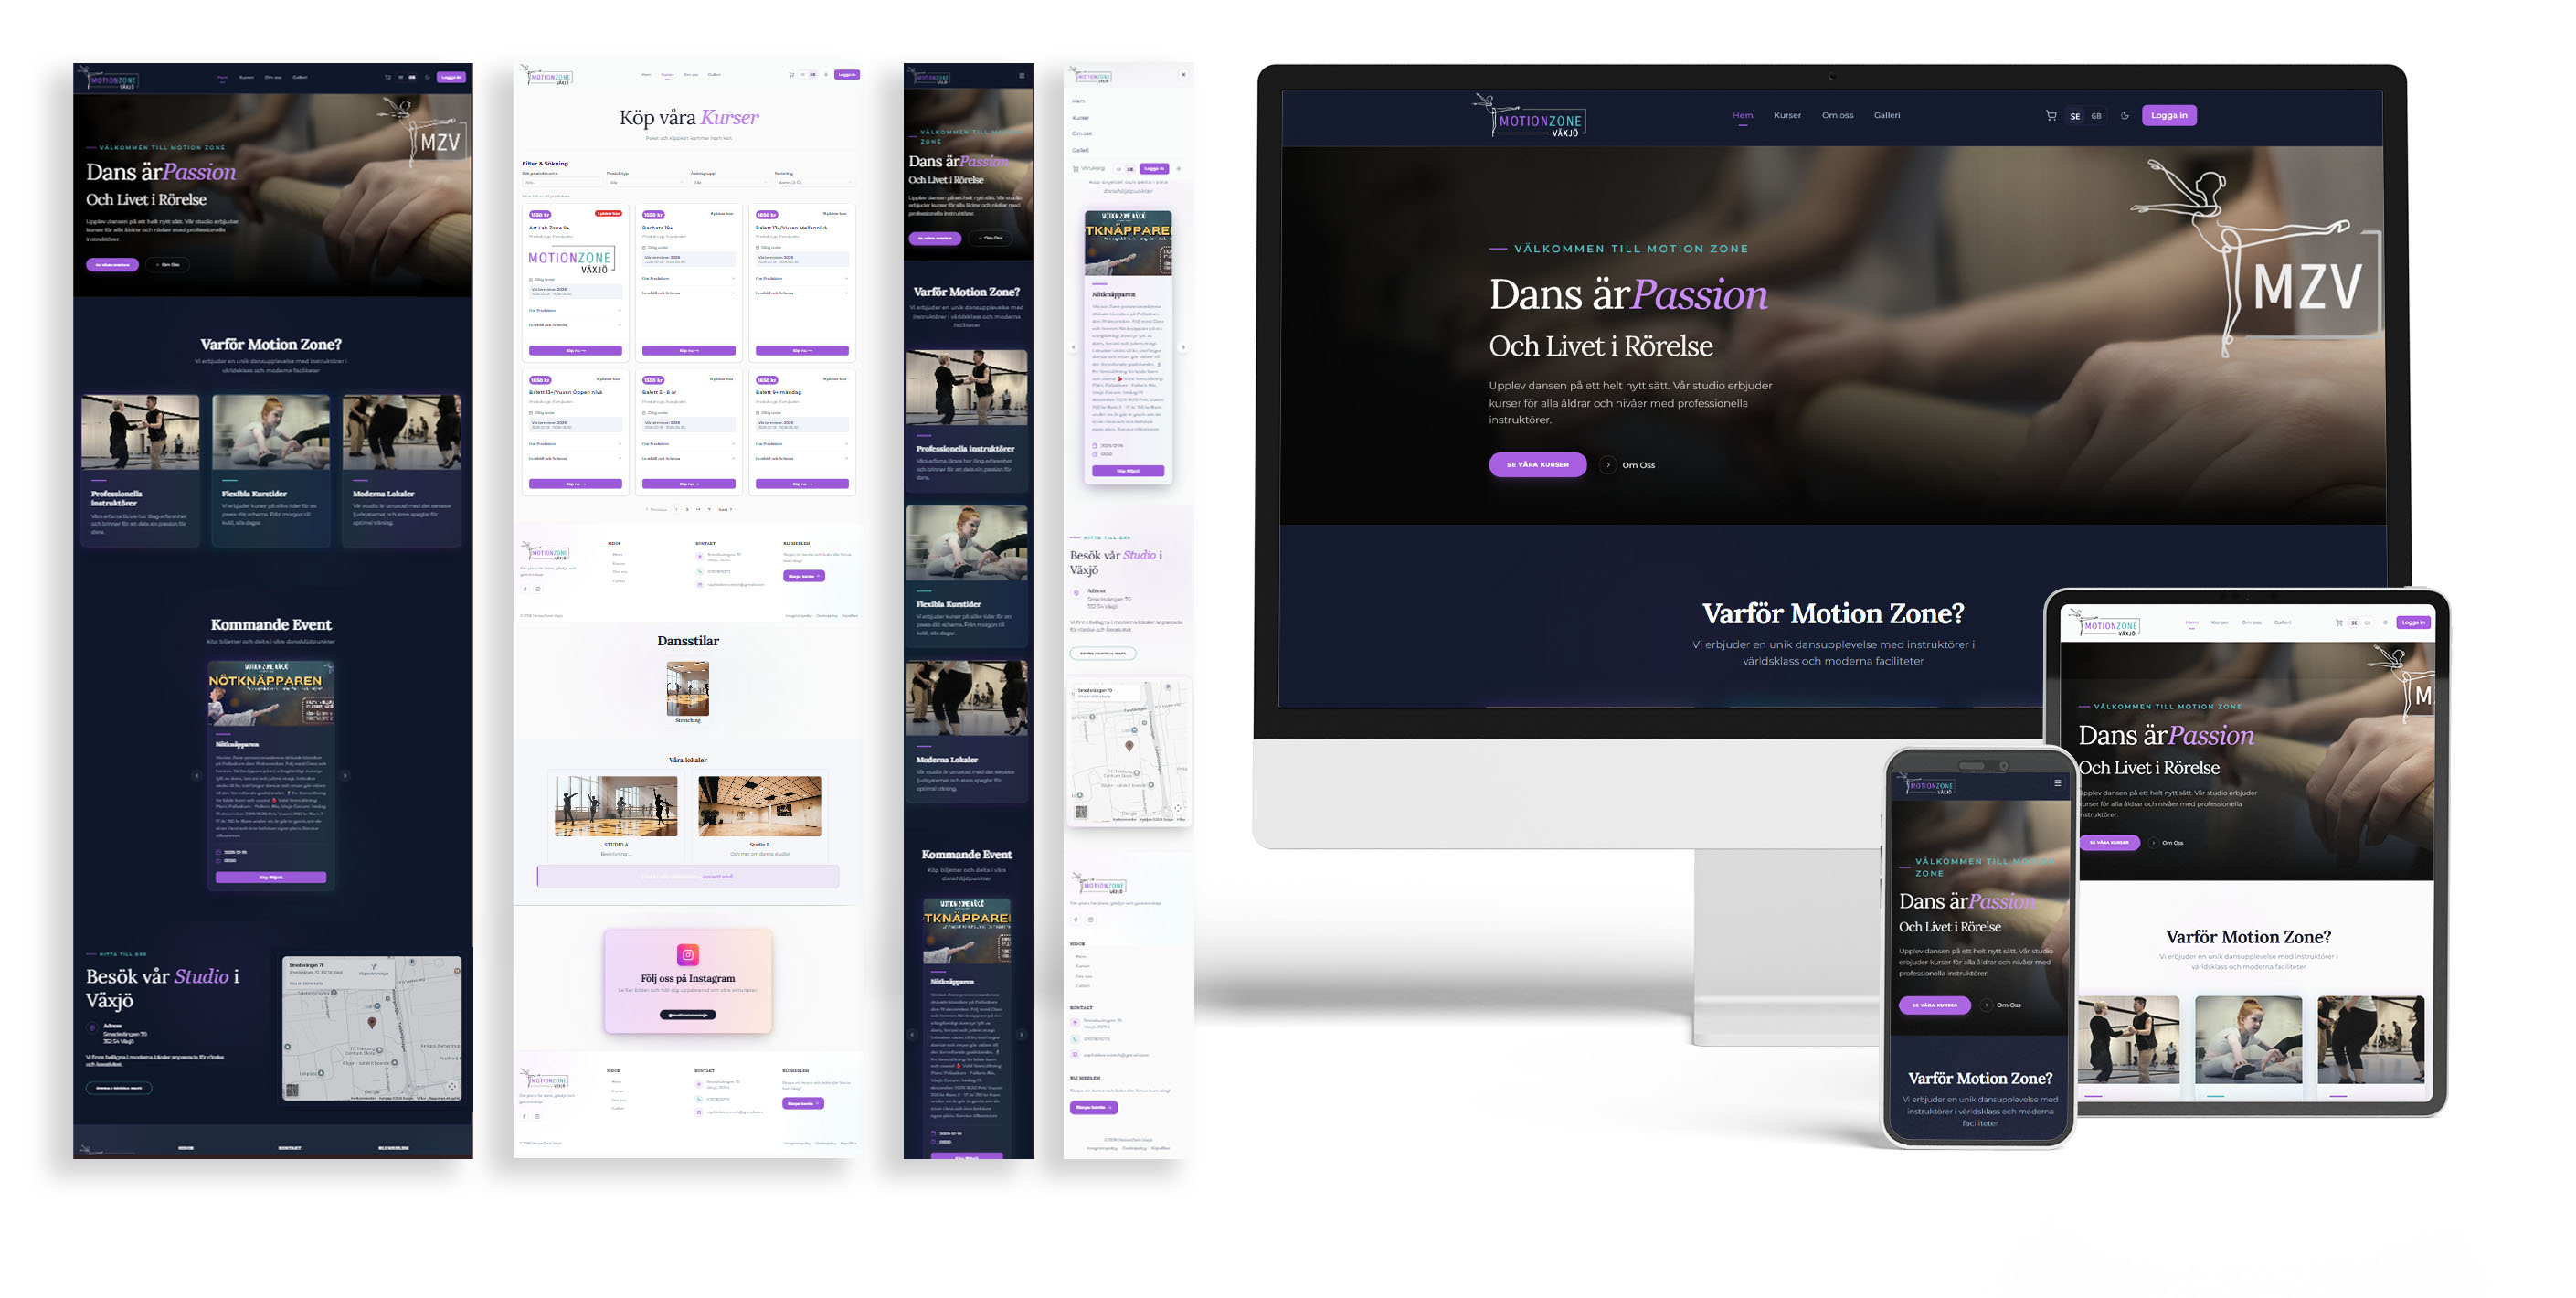
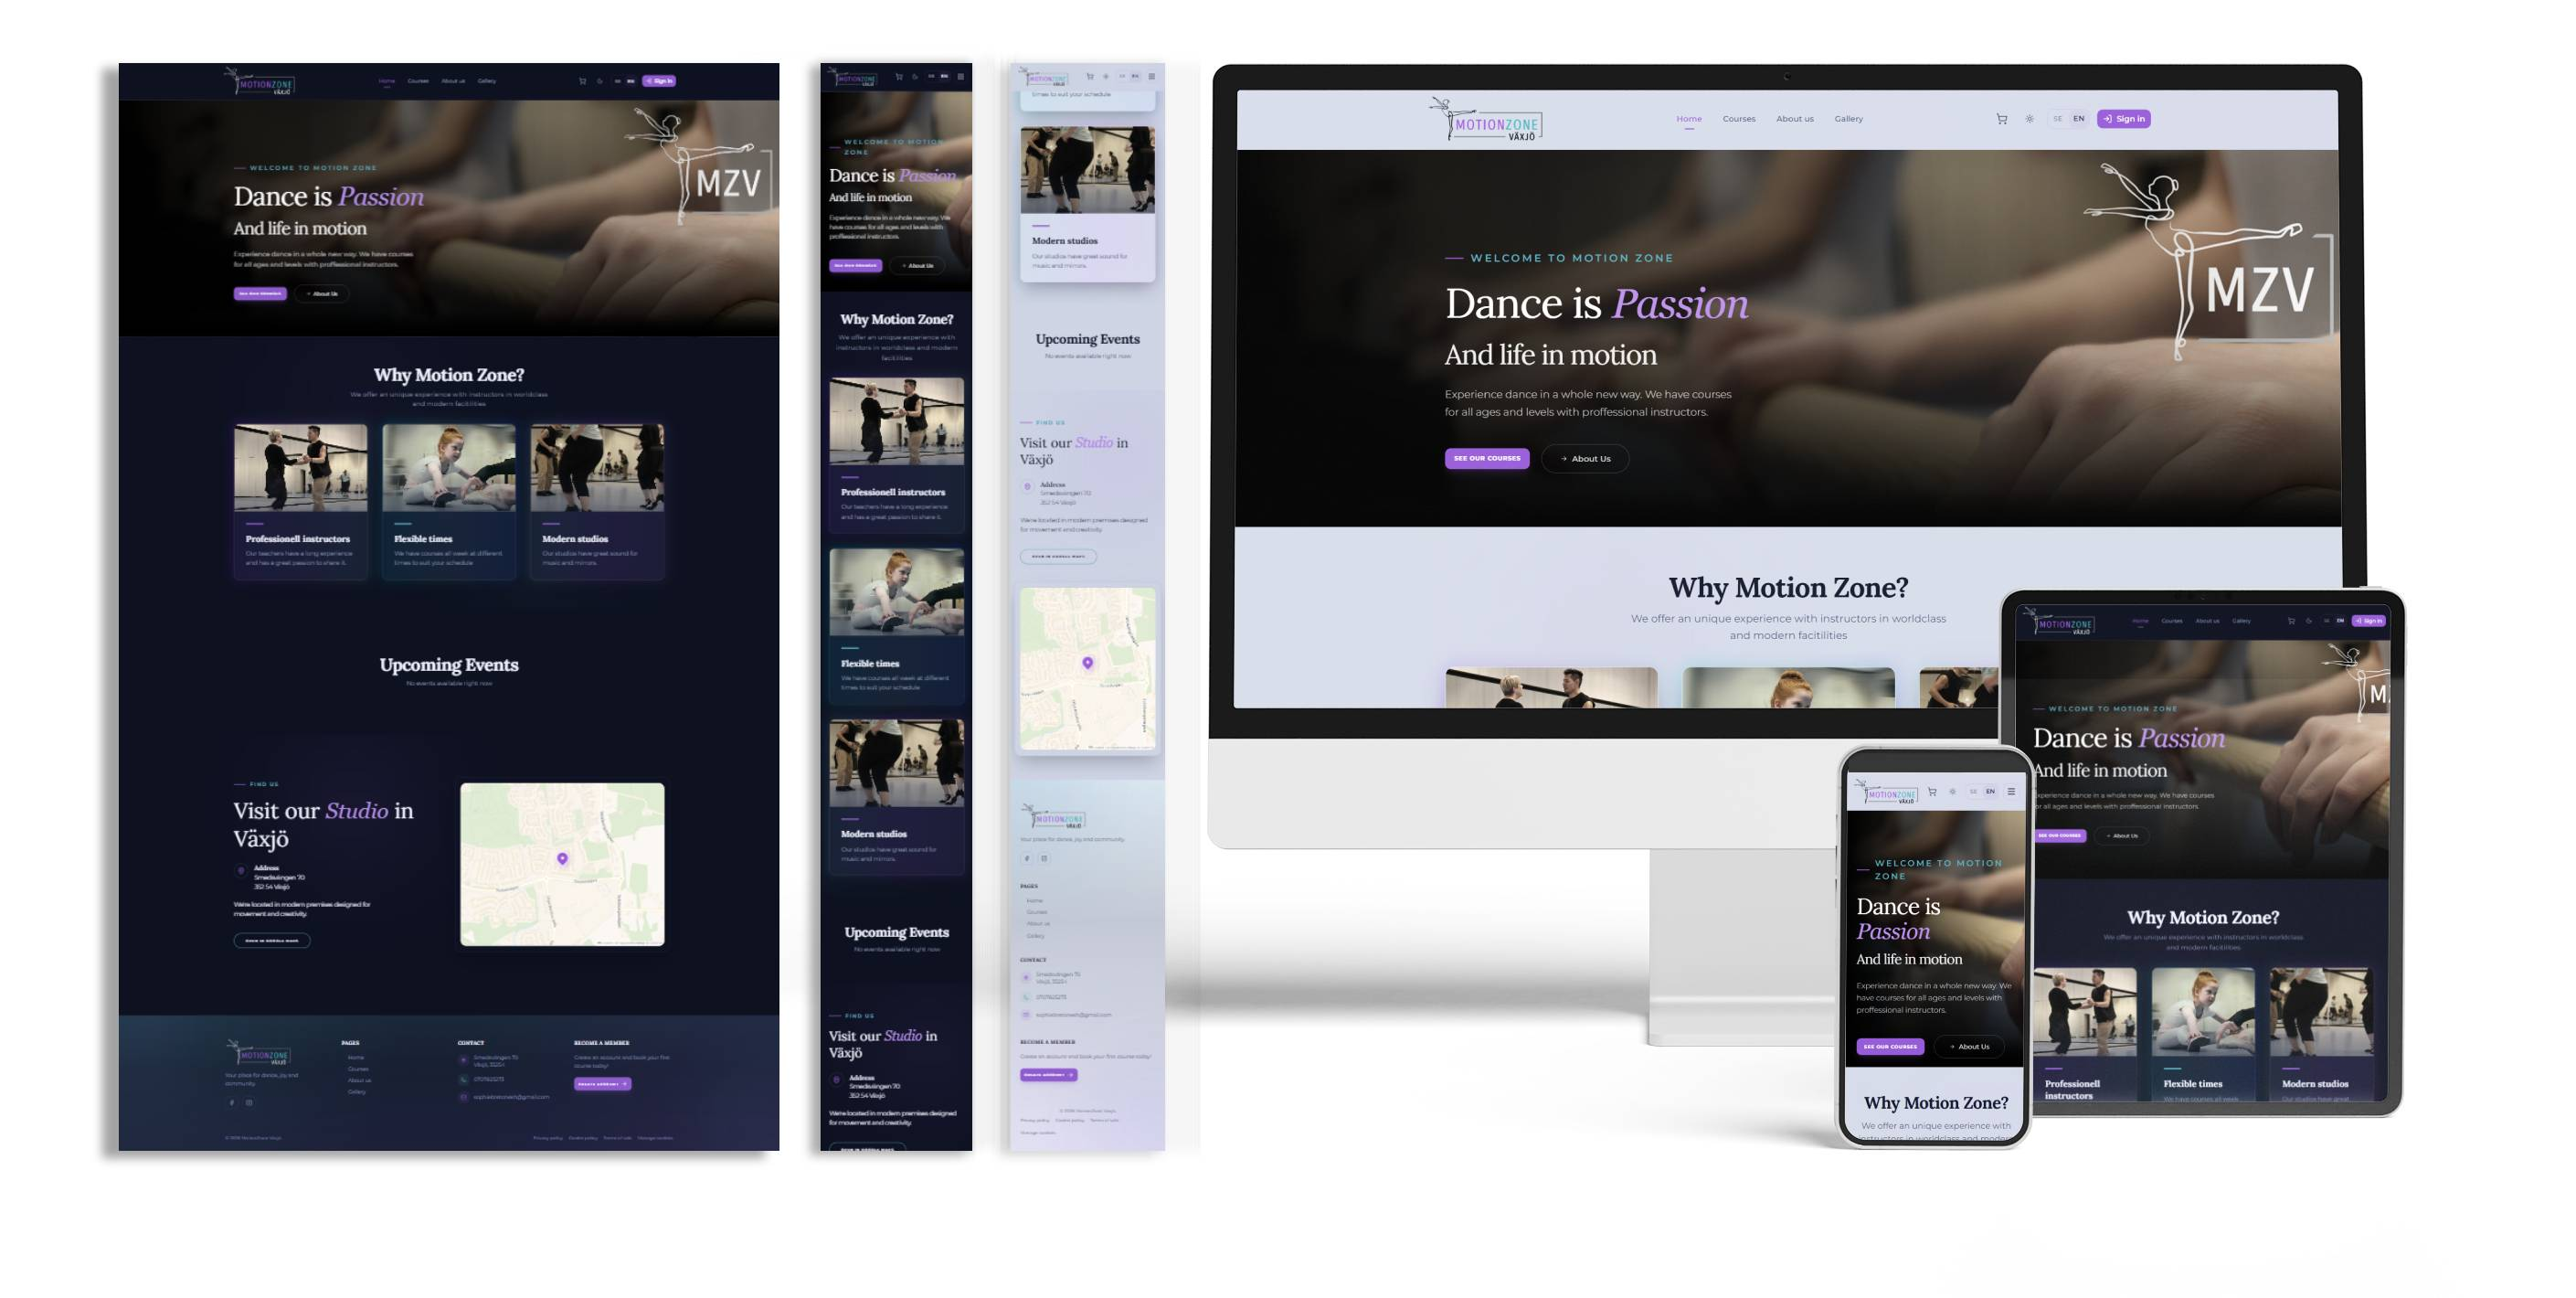
portfolio

diff --git a/src/components/portfolio.tsx b/src/components/portfolio.tsx
@@ -4,11 +4,12 @@ import ProjectCard from "./ProjectCard";
 import { useTranslate } from "@/locales/use-locales";
 
 const PROJECT_KEYS = [
+  "knegarloggen",
+    "kladerEfterVader",
   "bMovies",
   "dagensDons",
   "motionzone",
   "sweettimeUf",
-  "kladerEfterVader",
   "skeningeVvs",
   "vaderskuggan",
   "studenthubben",
@@ -22,76 +23,85 @@ const PROJECT_DATA: Record<
   string,
   { image: string; tech: string; projectLink?: string; codeLink?: string }
 > = {
+
+  knegarloggen: {
+    image: "/image/mockupbilder/knegarloggen.png",
+    tech: "React, Next.js, TypeScript, Tailwind CSS, Shadcn, PostgreSQL, Prisma, Zod, BetterAuth, API, Stripe, Nodmailer,",
+    codeLink: "https://github.com/knixan/knegarloggen",
+    projectLink: "https://knegarloggen.vercel.app/",
+  },
+
+    kladerEfterVader: {
+    image: "/image/mockupbilder/vaderefterklader.jpg",
+    tech: "React, Next.js, TypeScript, Tailwind CSS, OpenWeatherMap API",
+    projectLink: "https://vaderefterklader.se",
+    codeLink: "https://github.com/knixan/vaderefterklader",
+  },
+
   bMovies: {
-    image: "/Image/mockup-bmovies.jpg",
+    image: "/image/mockupbilder/bmovies.jpg",
     tech: "React, Next.js, TypeScript, Tailwind CSS, Shadcn, PostgreSQL, Prisma, Zod, BetterAuth, API",
     codeLink: "https://github.com/knixan/b-movies",
     projectLink: "https://b-movies.vercel.app/",
   },
   sweettimeUf: {
-    image: "/Image/mockup-sweettime-uf.png",
+    image: "/image/mockup-sweettime-uf.png",
     tech: "React, Next.js, TypeScript, Tailwind CSS, Prisma, PostgreSQL, Zod, BetterAuth, Shadcn",
     projectLink: "sweettimeuf-woad.vercel.app/",
     codeLink: "https://github.com/knixan/sweettimeuf",
   },
 
     motionzone: {
-    image: "/Image/mockupbilder/motionzone.jpg",
+    image: "/image/mockupbilder/motionzone.jpg",
     tech: "React, Next.js, TypeScript, Tailwind CSS, Shadcn, PostgreSQL, Prisma",
     projectLink: "https://dev.motionzoneworld.com/",
     codeLink: "https://github.com/motionzoneproject/motionzoneproject",
   },
 
   fakeyNails: {
-    image: "/Image/mockupbilder/fakeynails.jpg",
+    image: "/image/mockupbilder/fakeynails.jpg",
     tech: "React, Next.js, Sanity CMS, TypeScript, TailwindCSS, Shadcn, Nodmailer",
     codeLink: "https://github.com/knixan/fakey-nails",
     projectLink: "https://fakey-nails.vercel.app/",
   },
   dagensDons: {
-    image: "/Image/mockupbilder/dagensdos.jpg",
+    image: "/image/mockupbilder/dagensdos.jpg",
     tech: "React, Next.js, TypeScript, Tailwind CSS, Shadcn, PostgreSQL, Prisma, Zod, BetterAuth",
     codeLink: "https://github.com/knixan/dagens-dos",
   },
 
-  kladerEfterVader: {
-    image: "/Image/mockupbilder/vaderefterklader.jpg",
-    tech: "React, Next.js, TypeScript, Tailwind CSS, OpenWeatherMap API",
-    projectLink: "https://vaderefterklader.se",
-    codeLink: "https://github.com/knixan/vaderefterklader",
-  },
   skeningeVvs: {
-    image: "/Image/mockupbilder/skenningevvs.jpg",
+    image: "/image/mockupbilder/skenningevvs.jpg",
     tech: "React, Next.js, TypeScript, Tailwind CSS",
     projectLink: "https://skeningevvs.se/",
     codeLink: "https://github.com/knixan/skeningevvsab",
   },
   vaderskuggan: {
-    image: "/Image/mockup-vaderskuggan.png",
+    image: "/image/mockup-vaderskuggan.png",
     tech: "React, Next.js, TypeScript, Tailwind CSS, API",
     projectLink: "https://vaderskuggan.vercel.app/",
     codeLink: "https://github.com/knixan/vaderskuggan",
   },
   studenthubben: {
-    image: "/Image/mockup-studenthubben.png",
+    image: "/image/mockup-studenthubben.png",
     tech: "React, Next.js, TypeScript, Material UI",
     projectLink: "https://studenthubben-six.vercel.app/",
     codeLink: "https://github.com/knixan/studenthubben",
   },
   gammelBygg: {
-    image: "/Image/mockupbilder/gammelbygg-mockup.jpg",
+    image: "/image/mockupbilder/gammelbygg-mockup.jpg",
     tech: "React, Next.js, TypeScript, Tailwind CSS",
     projectLink: "https://gammelbyggnadsmaleri.vercel.app/",
     codeLink: "https://github.com/knixan/gammelbyggnadsmaleri",
   },
   ledningsteknik: {
-    image: "/Image/mockupbilder/ledningsteknink-mockup.jpg",
+    image: "/image/mockupbilder/ledningsteknink-mockup.jpg",
     tech: "React, Next.js, TypeScript, Tailwind CSS",
     projectLink: "https://ledningsteknik.vercel.app/",
     codeLink: "https://github.com/knixan/ledningsteknik",
   },
   jonnyEriksson: {
-    image: "/Image/mockupbilder/jonnyeriksson-mockup.jpg",
+    image: "/image/mockupbilder/jonnyeriksson-mockup.jpg",
     tech: "React, Next.js, TypeScript, Tailwind CSS",
     projectLink: "https://jonnyeriksson.vercel.app/",
     codeLink: "https://github.com/knixan/jonnyeriksson-ART",